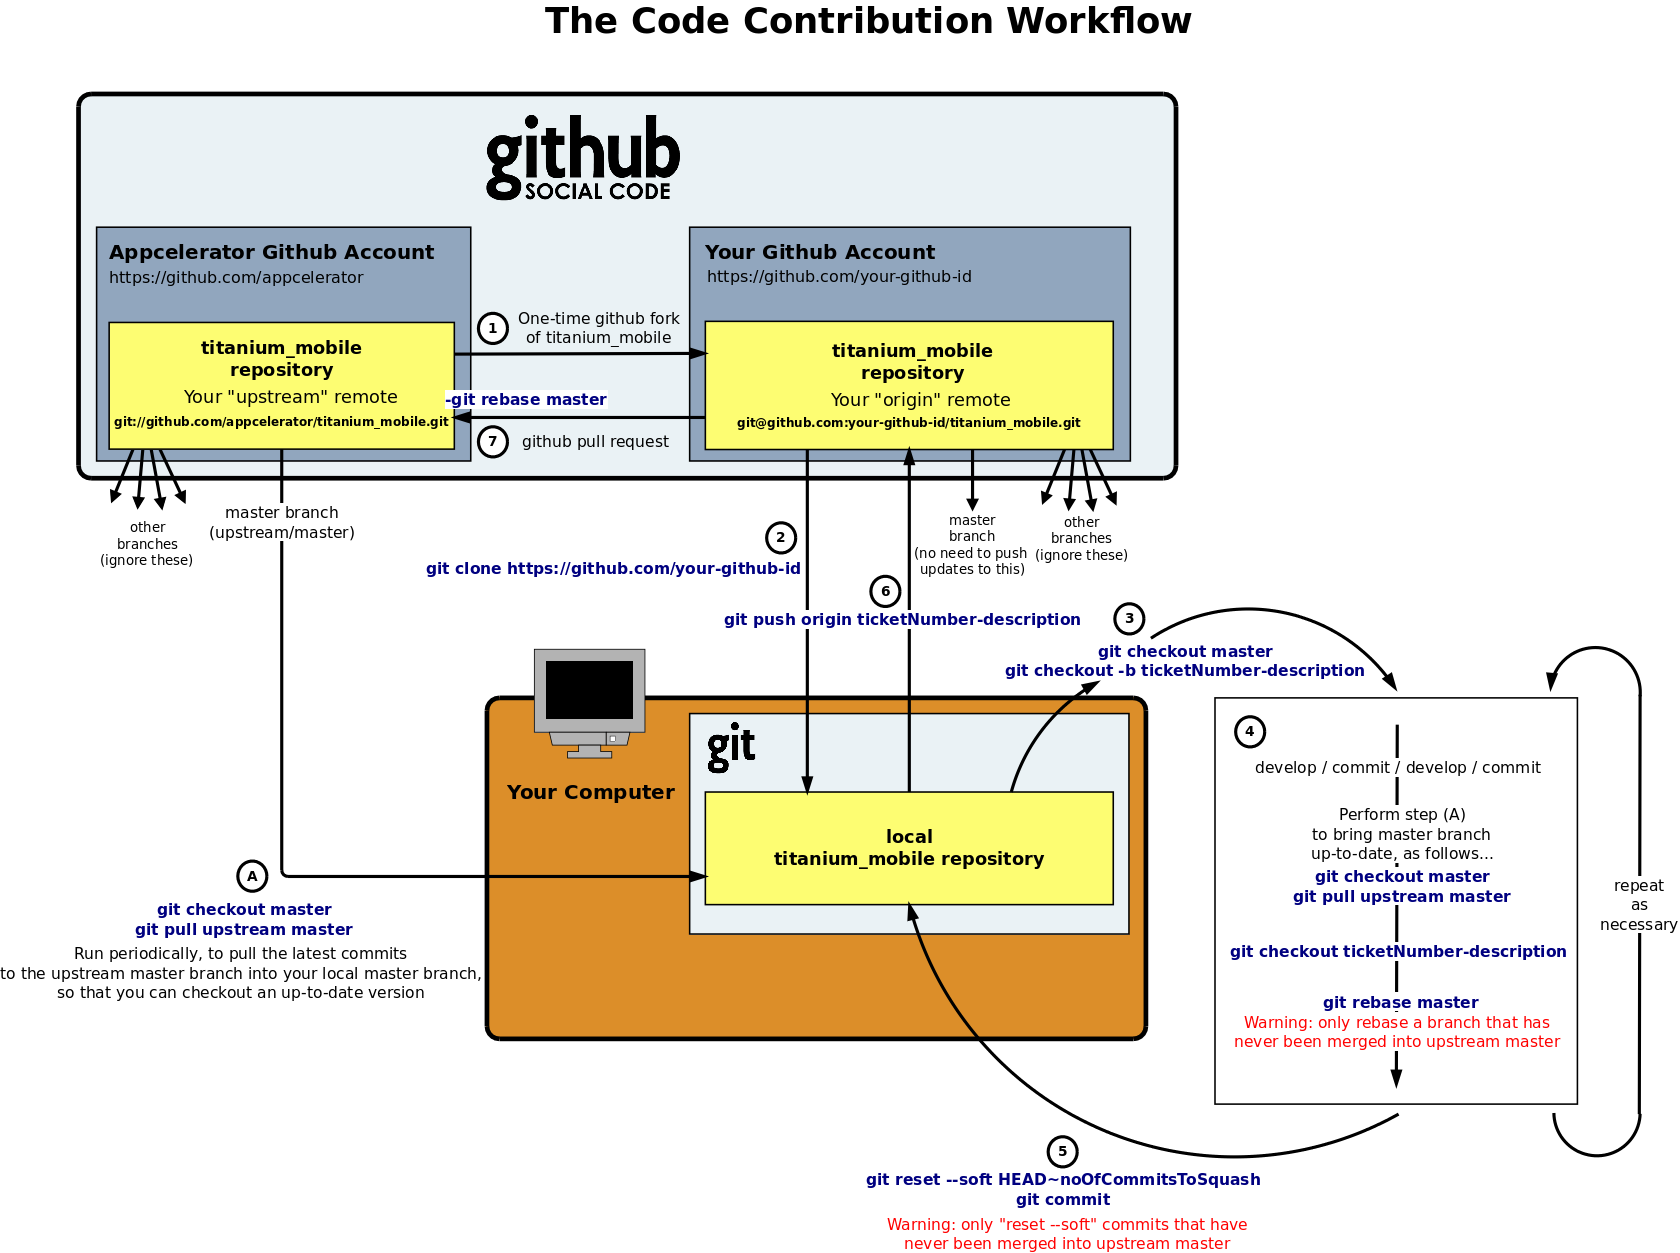
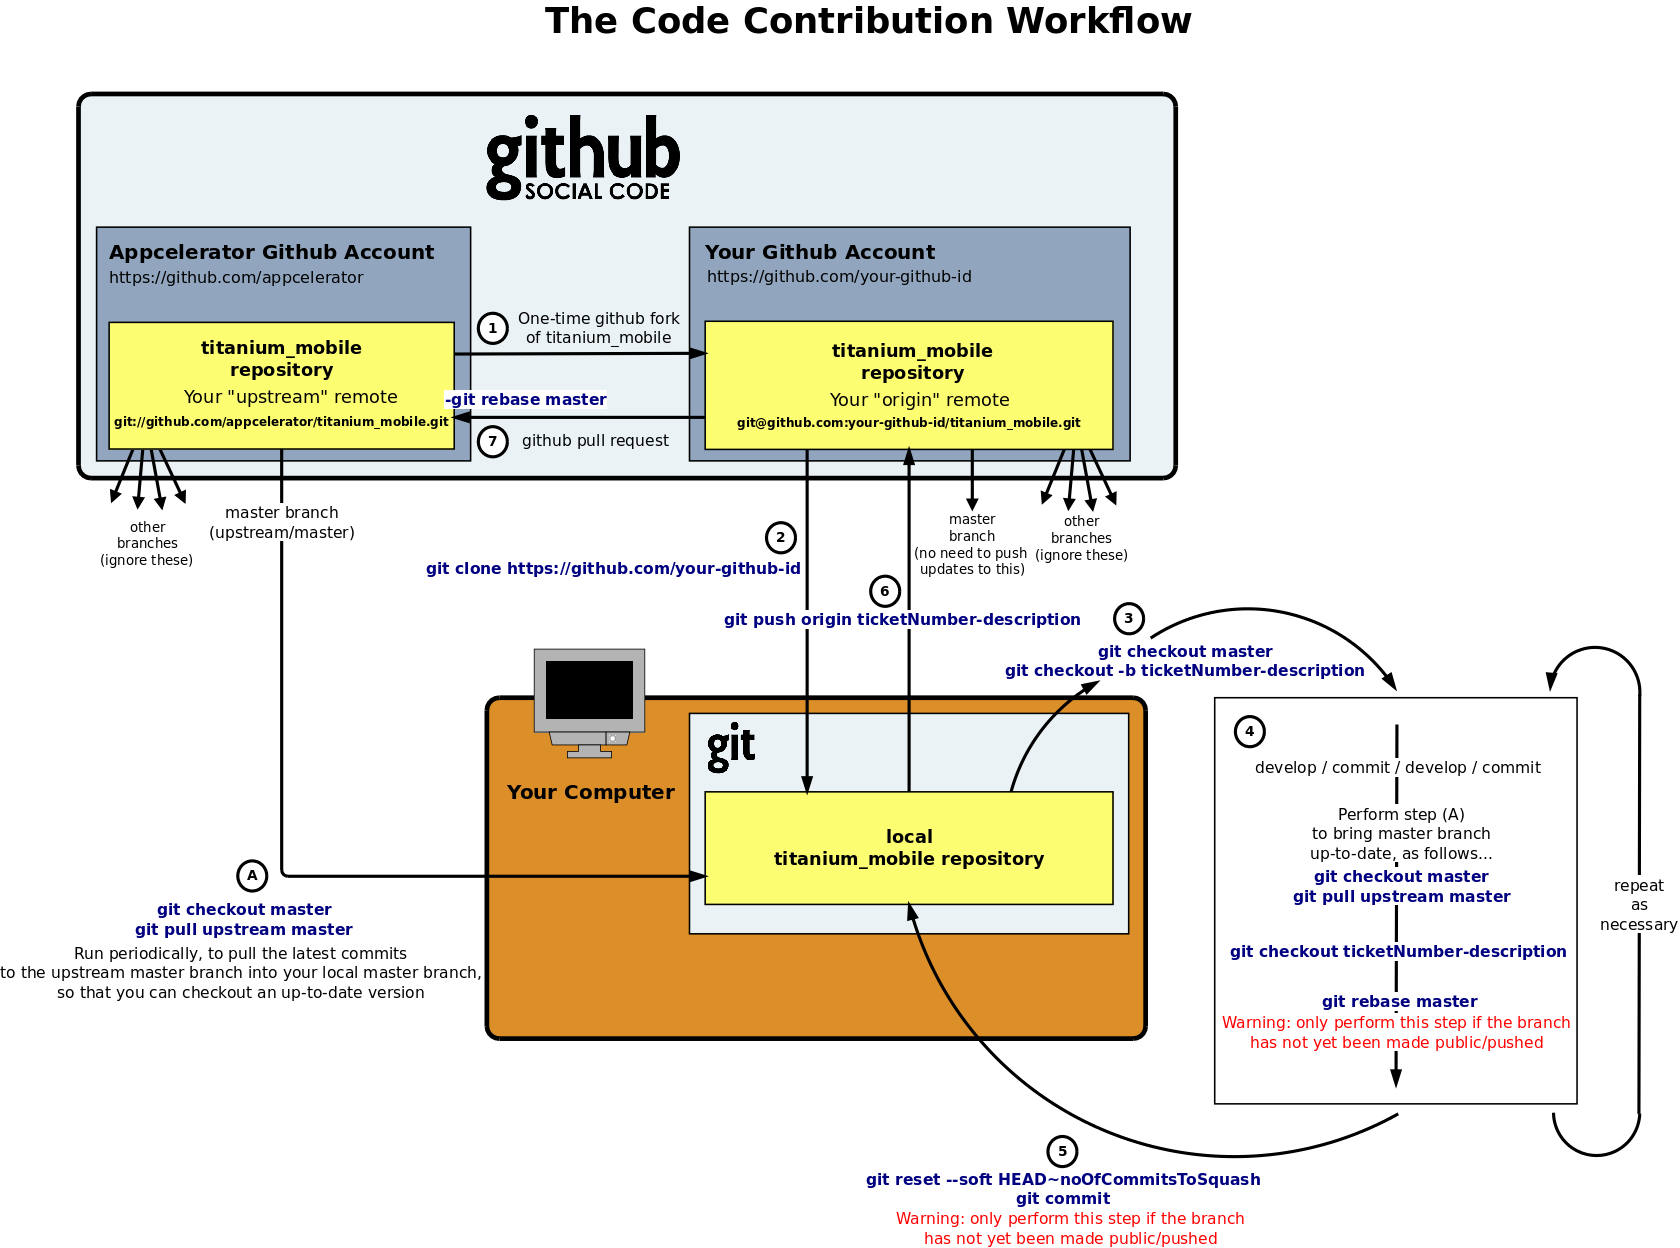
Clarified advice about rebase and pushed branches

diff --git a/source/en/contribute.md b/source/en/contribute.md
@@ -358,11 +358,11 @@ git rebase master
 <info>You can update your local branch at any time with the latest commits to Appcelerator's public repository, using this method. However, it's most important to do so just before you push your finished work, to reduce the risk of conflicts when it is merged.</info>
 
 <warning>
-When you rebase a branch, it can change the SHA-1 hash of any commits since it branched off from, or was merged with, master. If these commits have been made public and someone has subsequently based their work on them, rebasing will cause problems because these old commits will appear to be new commits and will have to be merged in despite already existing.
+When you rebase a branch, it can change the SHA-1 hash of any of your commits since it branched off from master. If these commits have been made public and someone has subsequently based their work on them, rebasing will cause problems because these old commits will appear to be new commits and will have to be merged in despite already existing.
 
-As no-one will be using your branch to work from, this should not be an issue. However, it's important to remember to **never rebase a branch that has already been merged into master**. Instead, bring your master up-to-date and create a brand new branch from it.
+As no-one will be using your branch to work from, this should not be an issue. However, the easiest rule to follow is **never rebase a branch that has already been made public/pushed**.
 
-See Pro Git's [The Perils of Rebasing](http://progit.org/book/ch3-6.html#the_perils_of_rebasing) for more information.
+Hence, if your branch has been pushed, skip the `git rebase master` step.
 </warning>
 
 ### 5. Squash your commits
@@ -380,7 +380,7 @@ git commit
 </code>
 
 <warning>
-Like rebase, this also rewrites the history, so the caveat mentioned above also applies.
+Like rebase, this also rewrites the history, so the caveat mentioned above also applies. Hence, **skip this step if the branch has already been pushed**.
 </warning>
 
 ### 6. Push your local branch to your Github repository
